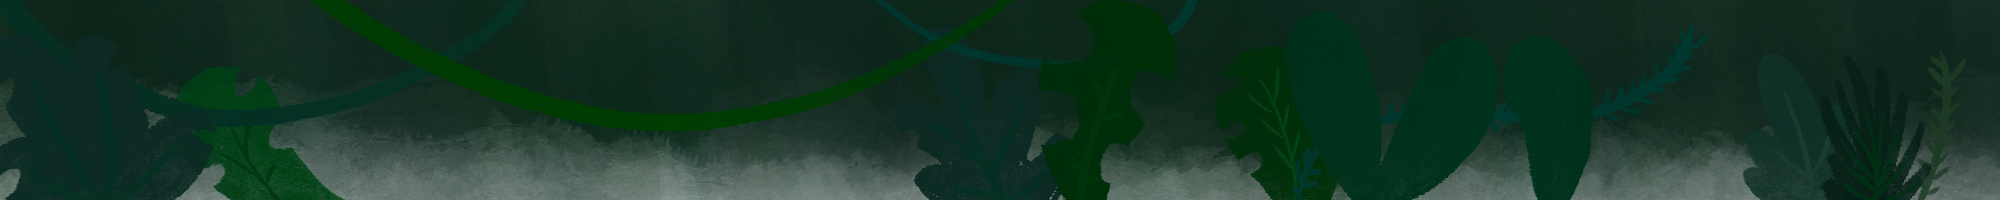
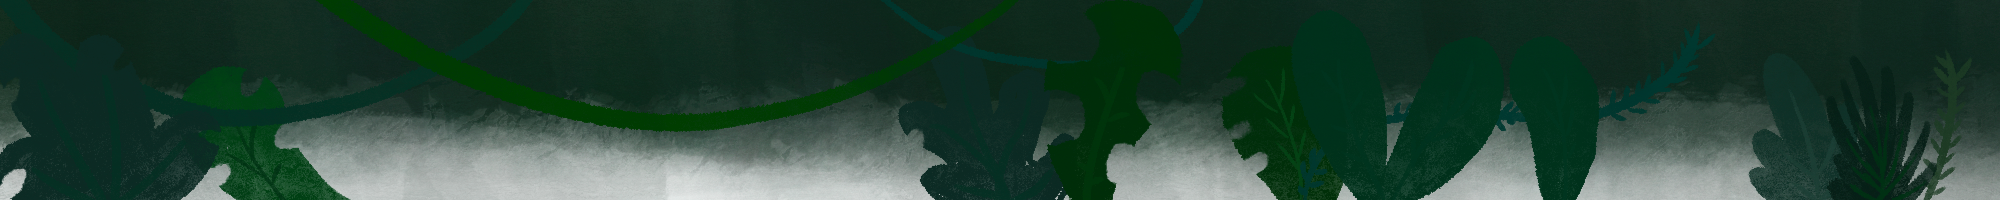
fix fade in and out

diff --git a/PutYourHandsUpInTheAir/Assets/Systems/Room/RoomFadeOutSystem.cs b/PutYourHandsUpInTheAir/Assets/Systems/Room/RoomFadeOutSystem.cs
@@ -43,12 +43,12 @@ namespace Systems.Room
         {
             if (comp.Room.State.CurrentState.Value is RoomWalkIn)
             {
-                var alpha = 1 - comp.FadeTime / (Time.timeSinceLevelLoad - StartStamp);
+                var alpha = (Time.timeSinceLevelLoad - StartStamp) / comp.FadeTime;
                 comp.GetComponent<Image>().color = Color.Lerp(Hidden, Show, alpha);
             }
             else if (comp.Room.State.CurrentState.Value is RoomDestroy)
             {
-                var alpha = 1 - comp.FadeTime / (Time.timeSinceLevelLoad - EndStamp);
+                var alpha = (Time.timeSinceLevelLoad - EndStamp) / comp.FadeTime;
                 comp.GetComponent<Image>().color = Color.Lerp(Show, Hidden, alpha);
             }
         }
